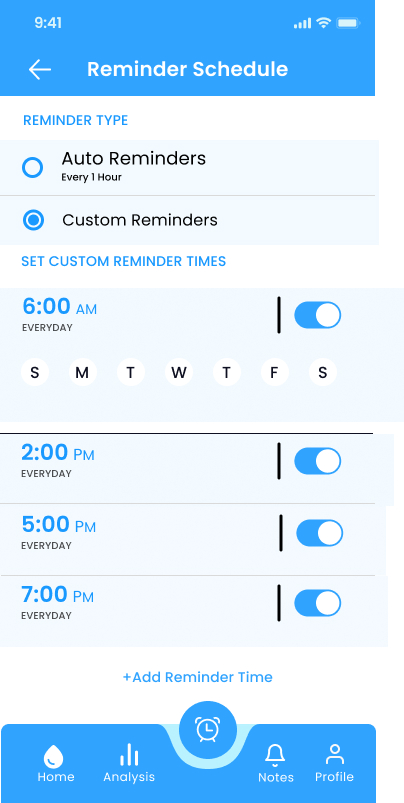
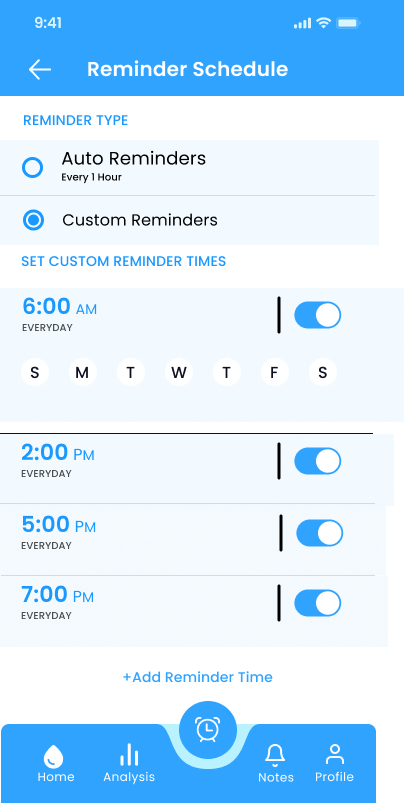
Update design desktop

Changed region(s): [[0.9208, 0.0, 1.0, 0.1245]]

diff --git a/README.md b/README.md
@@ -53,18 +53,27 @@ Hydration adalah aplikasi yang dibuat untuk membantu meningkatkan kesadaran masy
 ![Light Weekly Stats](./ui-ux/Light%20weekly%20stats%20page.png)
 
 ### Light Stats Desktop
-![Light Stats Desktop](./ui-ux/Light%20stats%20desktop.jpg)
+![Light Stats Desktop](./ui-ux/Analysis%20desktop.jpg)
 
 
 ### Reminder
 ![Reminder](./ui-ux/Reminder.jpg)
+![Reminder](./ui-ux/Custom%20reminder%20desktop.jpg)
+![Reminder](./ui-ux/Auto%20reminder%20desktop.jpg)
 
 ### Reminder 1
 ![Reminder 1](./ui-ux/Reminder-1.jpg)
 
 
+## Notes
+![Notes](./ui-ux/Notes%20page.jpg)
+![Notes](./ui-ux/Notes%20desktop.jpg)
+
+
+
 ### Profile
 ![Profile](./ui-ux/Profile.jpg)
+![Profile](./ui-ux/Profile%20desktop.jpg)
 
 
 ### Log Out
